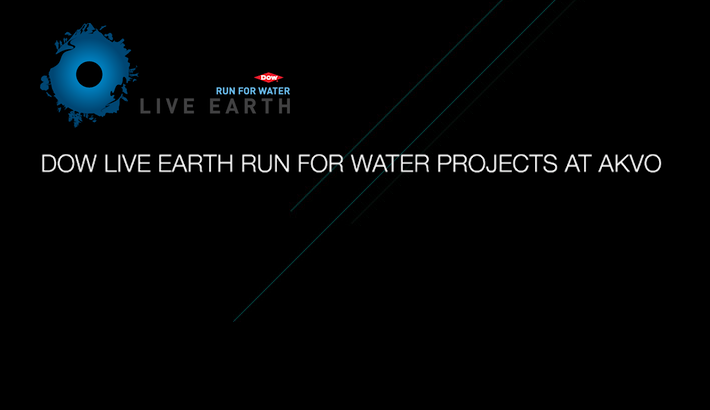
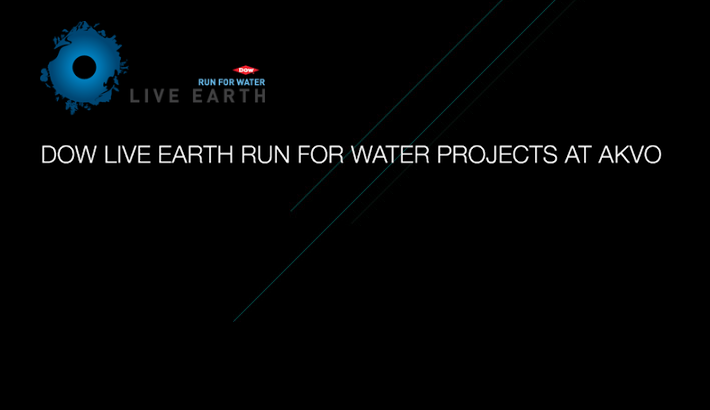
New version of the le landing page image

Changed region(s): [[0.062, 0.3512, 0.9296, 0.439], [0.062, 0.0585, 0.4338, 0.322]]

diff --git a/akvo/mediaroot/css/style_rsr.css b/akvo/mediaroot/css/style_rsr.css
@@ -293,14 +293,14 @@ padding: 10px 0;
 div#live_earth_show {
     background: transparent url('../img/LE-bar-water-bkg.png') no-repeat;
     color:#fff;
-    /*
-    padding-top:240px;
-    height:176px;
-    */
-    padding-top:181px;
-    height:206px;
     padding-left:20px;
     padding-right:20px;
+    /*
+    padding-top:181px;
+    height:206px;
+    */
+    padding-top:171px;
+    height:216px;
     
 }
 /*
